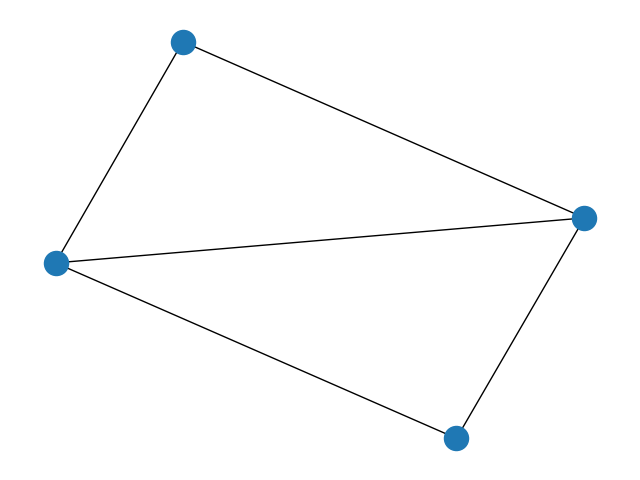
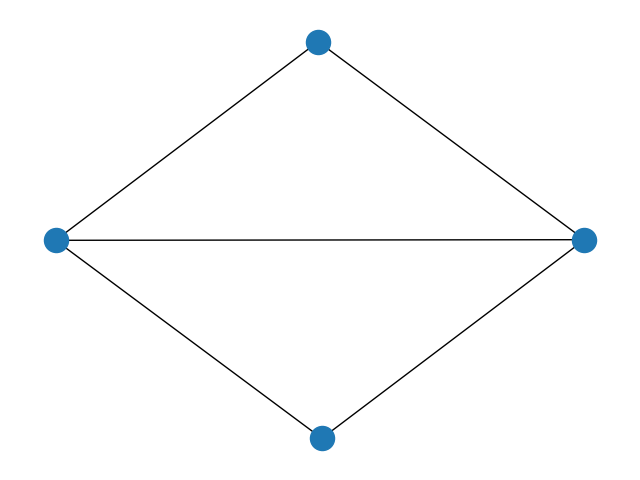
popravio

diff --git a/03-02-celobrojno-programiranje/03-p-median-problem/p_median_problem_2.py b/03-02-celobrojno-programiranje/03-p-median-problem/p_median_problem_2.py
@@ -8,11 +8,11 @@ import xarray as xr
 from linopy import Model
 
 # Load data
-consumer_locations = pd.read_csv('04-02-celobrojno-programiranje/03-p-median-problem/data/consumer_locations.csv', usecols= ['x','y'])
+consumer_locations = pd.read_csv('03-02-celobrojno-programiranje/03-p-median-problem/data/consumer_locations.csv', usecols= ['x','y'])
 #print(consumer_locations)
-facility_locations = pd.read_csv('04-02-celobrojno-programiranje/03-p-median-problem/data/facility_locations.csv', usecols= ['x','y'])
+facility_locations = pd.read_csv('03-02-celobrojno-programiranje/03-p-median-problem/data/facility_locations.csv', usecols= ['x','y'])
 #print(facility_locations)
-building_costs = pd.read_csv('04-02-celobrojno-programiranje/03-p-median-problem/data/building_costs.csv', usecols= ['building_costs'])
+building_costs = pd.read_csv('03-02-celobrojno-programiranje/03-p-median-problem/data/building_costs.csv', usecols= ['building_costs'])
 #print(building_costs)
 
 # Create helper function for distance calculation between consumer and facility

diff --git a/03-02-celobrojno-programiranje/06-graph-coloring-problem/06_graph_coloring_problem.py b/03-02-celobrojno-programiranje/06-graph-coloring-problem/06_graph_coloring_problem.py
@@ -42,7 +42,7 @@ model = linopy.Model()
 vert_coord = pd.Index(range(num_vertices), name='vert_coord')
 col_coord = pd.Index(range(num_colors), name='col_coord')
 x_vars = model.add_variables(binary=True, coords=[vert_coord,col_coord], name='x')
-y_vars = model.add_variables(binary=True, coords=[vert_coord], name='y')
+y_vars = model.add_variables(binary=True, coords=[col_coord], name='y')
 
 # Set objective function: minimize the number of colors used
 model.add_objective( y_vars.sum(), sense='min')

diff --git a/03-02-celobrojno-programiranje/02a-knapsack-problem/knapsack_problem_1.py b/03-02-celobrojno-programiranje/02a-knapsack-problem/knapsack_problem_1.py
@@ -13,7 +13,7 @@ x6 = m.add_variables(binary=True, name='x6')
 print(m.variables)
 
 # constraints
-m.add_constraints(5*x1+7*x2+4*x3+3*x4+4*x5+6*x6 <= 14, name="total points constrainr")
+m.add_constraints(5*x1+7*x2+4*x3+3*x4+4*x5+6*x6 <= 14, name="total points constraint")
 
 # objective
 m.add_objective(16*x1+22*x2+12*x3+8*x4+11*x5+19*x6, sense='max')

diff --git a/03-02-celobrojno-programiranje/04-max-clique-problem/max_clique_problem.py b/03-02-celobrojno-programiranje/04-max-clique-problem/max_clique_problem.py
@@ -46,7 +46,7 @@ def get_max_clique_problem(graph: nx.Graph)->Model:
 
 
 verbosity:bool = True
-path:str = '03-02-celobrojno-programiranje/04-max-clique-problem/data/graph_01.txt'
+path:str = '03-02-celobrojno-programiranje/04-max-clique-problem/data/graph_02.txt'
 graph = read_graph_file(path, verbosity)
 
 nx.draw(graph)
